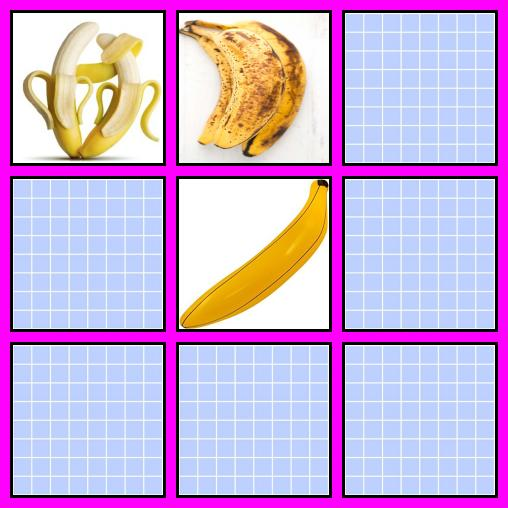
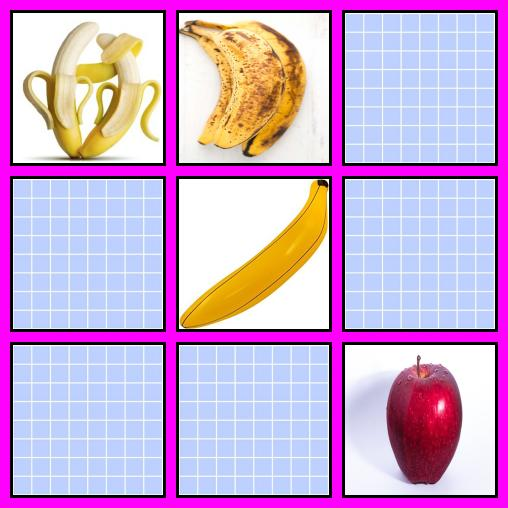
Added checkPair

Changed region(s): [[0.6791, 0.6791, 0.9744, 0.9744]]

diff --git a/MemoryGame/GameView.java b/MemoryGame/GameView.java
@@ -21,21 +21,28 @@ public class GameView {
     public static int LINEWIDTH_MEMORYCARD = 3;
     public static int BOARDSIZE = 3;
 
-    public GameView(MemoryBoard mb) {
+    private JPanel frameBoard;
+    private JFrame frame;
 
-        try {
-            showBoard(mb);
-        } catch (IOException e) {
-            e.printStackTrace();
-        }
-
+    public GameView(MemoryBoard mb) throws IOException {
+        createWindow();
+        updateWindow(mb);
     }
 
-    public static void showBoard(MemoryBoard mb) throws IOException {
-        JPanel frameBoard = new JPanel(new GridLayout(BOARDSIZE, BOARDSIZE, 10, 10));
+    public void createWindow() {
+        frameBoard = new JPanel(new GridLayout(BOARDSIZE, BOARDSIZE, 10, 10));
         frameBoard.setBorder(BorderFactory.createEmptyBorder(PADDING, PADDING, PADDING, PADDING));
         frameBoard.setBackground(Color.MAGENTA);
+        frame = new JFrame("Memory");
+        frame.setDefaultCloseOperation(JFrame.DISPOSE_ON_CLOSE);
+        frame.getContentPane().add(frameBoard);
+        frame.pack();
+        frame.setLocationByPlatform(true);
+        
+    }
 
+    public void updateWindow(MemoryBoard mb) throws IOException {
+        frameBoard.removeAll();
         ImageIcon icon = new ImageIcon();
 
         for (int r = 0; r < mb.getSize(); r++) {
@@ -52,25 +59,21 @@ public class GameView {
                 frameBoard.add(lbl, BOARDSIZE*r + c);  // Här blir det konstigt
             }
         }
-        System.out.println("here");
 
-        JFrame frame = new JFrame("Memory");
-        frame.setDefaultCloseOperation(JFrame.DISPOSE_ON_CLOSE);
-        frame.getContentPane().add(frameBoard);
+        
         frame.pack();
-        frame.setLocationByPlatform(true);
         frame.setVisible(true);
 
         SaveBoardImage(frameBoard);
     }
 
-    public static ImageIcon resizeImageIcon(ImageIcon imageIcon) {
+    private ImageIcon resizeImageIcon(ImageIcon imageIcon) {
         Image image = imageIcon.getImage();
         Image newimg = image.getScaledInstance(150, 150, java.awt.Image.SCALE_SMOOTH);
         return new ImageIcon(newimg);
     }
 
-    public static void SaveBoardImage(JPanel component) {
+    public void SaveBoardImage(JPanel component) {
         Dimension d = component.getSize();
         BufferedImage image = new BufferedImage(d.width, d.height, BufferedImage.TYPE_INT_RGB);
         Graphics2D g2d = image.createGraphics();
@@ -79,14 +82,13 @@ public class GameView {
         try {
             boolean result = ImageIO.write(image, "jpg",
                     new File("/Users/ebbarickard/2021:2022/INSA/Projet integrateur/board.jpg"));
-            System.out.println("Should have saved image");
             System.out.println(result);
         } catch (IOException e) {
             e.printStackTrace();
         }
     }
 
-    public static void displayImage(Image image) throws IOException {
+    private void displayImage(Image image) throws IOException {
         ImageIcon icon = new ImageIcon(image);
         JFrame frameImage = new JFrame();
         frameImage.setLayout(new FlowLayout());

diff --git a/MemoryGame/model/MemoryBoard.java b/MemoryGame/model/MemoryBoard.java
@@ -2,7 +2,6 @@ package MemoryGame.model;
 
 import java.io.File;
 
-
 // class should return an image of the board consisting of size x size memory bricks
 // takes the board size as input
 // keeps track of the status of the board (flipped cards, pairs already made)
@@ -10,20 +9,24 @@ import java.io.File;
 public class MemoryBoard {
 
     private MemoryImage[][] board;
+    private String[][] labels;
     private MemoryImage background;
     private boolean[][] boardStatus;
     private int size;
 
-    public MemoryBoard(int size, String fileDirectoryName) {
+    public MemoryBoard(int size, String fileDirectoryName, String backgroundImageFileName) {
         this.size = size;
+
         board = new MemoryImage[size][size];
         boardStatus = new boolean[size][size];
+        labels = new String[size][size];
+
         boardStatus[0][0] = true;
         boardStatus[0][1] = true;
         boardStatus[1][1] = true;
         addImages(fileDirectoryName);
-        background = new MemoryImage("/Users/ebbarickard/2021:2022/INSA/Projet integrateur/MemoryGame/model/background.png");
-        
+        background = new MemoryImage(backgroundImageFileName);
+
     }
 
     private void addImages(String fileDirectoryName) {
@@ -37,6 +40,7 @@ public class MemoryBoard {
                         System.out.println(file.getPath());
                         MemoryImage img = new MemoryImage(file.getPath());
                         board[r][c] = img;
+                        labels[r][c] = findLabel(file.getName());
 
                         if (r < size - 1) {
                             r++;
@@ -51,6 +55,10 @@ public class MemoryBoard {
             }
 
         }
+    }
+
+    private String findLabel(String filepath) {
+        return filepath.split("_")[0];
     }
 
     private boolean isImage(String fileName) {
@@ -80,6 +88,10 @@ public class MemoryBoard {
 
     public boolean isFlipped(int r, int c) {
         return boardStatus[r][c];
+    }
+
+    public boolean isPair(int r1, int c1, int r2, int c2) {
+        return labels[r1][c1].equals(labels[r2][c2]);
     }
 
 }

diff --git a/MemoryGame/GameController.java b/MemoryGame/GameController.java
@@ -1,14 +1,37 @@
 package MemoryGame;
 
+import java.io.IOException;
 
 import MemoryGame.model.MemoryBoard;
 
 public class GameController {
-    private boolean[][] boardStatus;
+    private MemoryBoard mb;
     private GameView gv;
 
-    public GameController(MemoryBoard mb) {
+
+    public GameController(MemoryBoard mb) throws IOException {
+        this.mb = mb;
         gv = new GameView(mb);
     }
+
+    public void turnPair(int r1, int c1, int r2, int c2) {
+        if (!mb.isFlipped(r1, c1) && !mb.isFlipped(r2, c2)) {
+            mb.flipCard(r1, c1);
+            mb.flipCard(r2, c2);
+        }
+    }
+
+    // Called when the AI thinks it turned two cards that make a pair
+    // If the AI doesn't think it is a pair, it just flips them back
+    public void checkPair(int r1, int c1, int r2, int c2) throws IOException {
+        // If not pair, flip back to tell AI that it was wrong
+        if (!mb.isPair(r1, c1, r2, c2)) {
+            mb.flipCard(r1, c1);
+            mb.flipCard(r2, c2);
+        }
+
+        gv.updateWindow(mb);
+    }
+
 
 }

diff --git a/MemoryGame/maintest.java b/MemoryGame/maintest.java
@@ -6,14 +6,11 @@ import MemoryGame.model.MemoryBoard;
 
 public class maintest {
 
-
     public static void main(String[] args) throws IOException {
-        MemoryBoard mb = new MemoryBoard(GameView.BOARDSIZE,
-                "/Users/ebbarickard/2021:2022/INSA/Projet integrateur/test");
+        String imagesRepo = "/Users/ebbarickard/2021:2022/INSA/Projet integrateur/test";
+        String backgroundImage = "/Users/ebbarickard/2021:2022/INSA/Projet integrateur/MemoryGame/model/background.png";
+        MemoryBoard mb = new MemoryBoard(GameView.BOARDSIZE, imagesRepo, backgroundImage);
         GameController gc = new GameController(mb);
-        // GameView gv = new GameView(mb);
-        // showBoard(mb);
-        // displayImage(mb.getCard(3, 3).getImage());
 
     }
 
